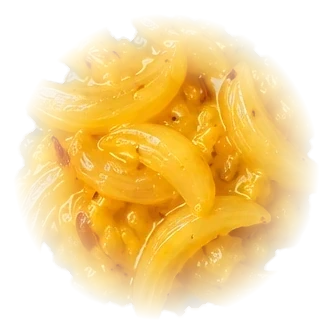
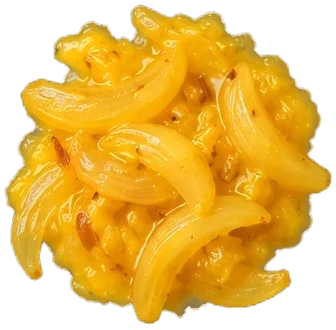
s08 w7A: the daal scatters' edge fades in code (the pixel check holds the files to a narrow rim)
Claude-Session: https://claude.ai/code/session_013C2XtPQ7vt1eLcYgYgK71D

diff --git a/js/cook/stations/daar.js b/js/cook/stations/daar.js
@@ -121,6 +121,31 @@ import { NjgPour } from "../../shared/pour.js"; // SH-117: the shared pour (the 
   const S8C = "assets/cook/items-s08c/";
   const DS1 = { "veg-02": "onion", "veg-03": "tomato", "veg-12": "chilli", "veg-01": "potato", "veg-13": "garlic", "veg-14": "ginger", "spi-02": "cumin", "spi-05": "mustard" };
   const ds1Key = (id) => `dv5-in-${DS1[id]}`;
+  /*
+   * A scatter laid on the daal: its own daal (drawn as a scalloped patch) fades out from 0.55 of its radius to its edge, so
+   * only the pieces stand out of the pot's daal (in code, made once: a soft rim this wide in the file fails the pixel check
+   * on cream). Its radius is about 0.45 of the cut's shorter side (assets/cook/items-s08c/meta.json daar_in).
+   */
+  function softIn(S, key) {
+    const k2 = `${key}-soft`;
+    if (S.textures.exists(k2)) return k2;
+    const img = S.textures.get(key).getSourceImage();
+    const w = img.width;
+    const h = img.height;
+    const R = 0.45 * Math.min(w, h);
+    const ct = S.textures.createCanvas(k2, w, h);
+    const g = ct.getContext();
+    g.drawImage(img, 0, 0);
+    const fade = g.createRadialGradient(w / 2, h / 2, R * 0.55, w / 2, h / 2, R);
+    fade.addColorStop(0, "rgba(0,0,0,1)");
+    fade.addColorStop(1, "rgba(0,0,0,0)");
+    g.globalCompositeOperation = "destination-in";
+    g.fillStyle = fade;
+    g.fillRect(0, 0, w, h);
+    g.globalCompositeOperation = "source-over";
+    ct.refresh();
+    return k2;
+  }
   // the served bowl on its trivet (528 x 563; its round body, trivet and all: r 0.4833 of w) and the ladle
   // (290 x 455, top-down, the handle rising: its bowl's centre and radius)
   // S03-D (S8): the tadka bowl redrawn with matte daar (no beads), its own trivet circle measured on the cut
@@ -1017,7 +1042,7 @@ import { NjgPour } from "../../shared/pour.js"; // SH-117: the shared pour (the 
     const n = ins.length;
     const size = inR * Math.min(0.78, Math.max(0.46, 1.25 / Math.sqrt(n + 1)));
     ins.forEach((id, i) => {
-      const img = S.track(S.add.image(cx, cy, ds1Key(id)).setDepth(D.item + 0.15).setAlpha(0));
+      const img = S.track(S.add.image(cx, cy, softIn(S, ds1Key(id))).setDepth(D.item + 0.15).setAlpha(0));
       img.setScale(size / Math.max(img.width, img.height));
       const deg = spin + i * 137.5;
       const rOut = n === 1 ? 0.25 : Math.min(0.62, 0.2 + 0.42 * Math.sqrt((i + 0.5) / n) + (Math.random() - 0.5) * 0.08);

diff --git a/build/tools/art/specs/s08c-cook-post.py b/build/tools/art/specs/s08c-cook-post.py
@@ -16,7 +16,7 @@ Every step works only on pictures ChatGPT drew (never a drawn stand-in, CLAUDE.m
      build/tools/art/upscale.py: assets/cook/worktop-s08c/marble-tile-s08c.webp.
   4. The hob: the plate cut from assets/cook/bg/bg-cook-hob-t-v1.png on a rounded rectangle fitted to it, upscaled x2:
      assets/cook/worktop-s08c/hob-plate-s08c.webp (laid on the tiled marble where the -1600 picture had it).
-  4b. DS1 (DAAR-05): each stirred-in scatter's edge faded and its daal brought to the pot's daal colour.
+  4b. DS1 (DAAR-05): each stirred-in scatter's daal brought to the pot's daal colour (its edge fades in code).
   5. The measures: assets/cook/items-s08c/meta.json (the tray's skewer lines, the pans' contents circles, the tip frames'
      near rim, the kadchi's and teaspoon's bowls, the hob's place in the 1600x900 design box).
 """
@@ -342,7 +342,7 @@ def place_in_1600(png, box):
 # ---------------------------------------------------------------- 4b. DS1: the scatters fade into the pot's daal
 def daar_in():
     """DS1 v2 (DAAR-05): each scatter's own daal is drawn as a scalloped patch; on the pot's daal (DP3's disc) it must not
-    read as a sticker: its edge fades out from 55% of its radius, and its daal is brought to the disc's colour (only the
+    read as a sticker: its daal is brought to the disc's colour (here) and its edge fades out from 0.55 of its radius (in code, at load) (only the
     daal-yellow pixels, by a gain per channel: the pieces keep theirs). Run once, on a fresh cut."""
     d = os.path.join(IT, "daar-in")
     disc = rgba(os.path.join(REPO, "assets/cook/items-s08b/daar-discs/disc-daal-stirred-s08b.webp"))
@@ -366,10 +366,10 @@ def daar_in():
             gain = np.clip(target / np.maximum(1, np.median(a[..., :3][daal], 0)), 0.85, 1.25)
             w = ndi.gaussian_filter(daal.astype(np.float32), 1.0)[..., None]
             a[..., :3] = a[..., :3] * (1 - w) + np.clip(a[..., :3] * gain, 0, 255) * w
-        a[..., 3] = al * fade * 255
+        # (the edge's fade is js/cook/stations/daar.js's, at load: a soft rim this wide in the file fails artpixels on cream)
         save(a, os.path.join(d, f))
         out[f] = {"R": round(float(R), 1)}
-    META["daar_in"] = dict(out, _about="DS1 v2 scatters: their radius (px); the edge faded from 0.55 of it, the daal brought to the stirred disc's colour %s" % [round(float(v)) for v in target])
+    META["daar_in"] = dict(out, _about="DS1 v2 scatters: their radius (px); the daal brought to the stirred disc's colour %s" % [round(float(v)) for v in target])
 
 
 # ---------------------------------------------------------------- 5. the other measures
